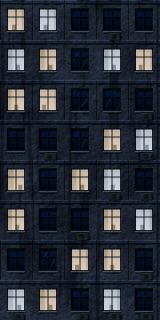
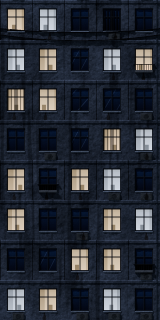
Версия 2026.11.02-120: город — фасад без одинаковой сетки окон: решётки, балконы с перилами, потёки ржавчины, кабели
make_facade.py: решётки на 12 % окон, балконы у 10 % (ниже точки, по которой игра различает горящие окна), потёки ржавчины
под подоконниками, провисшие кабели. В MASTER_PLAN — итоги v112–119 по критику r37.

Claude-Session: https://claude.ai/code/session_01JvXrYdG1XCH4i3GESsQzbh

diff --git a/index.html b/index.html
@@ -114,7 +114,7 @@
         </div>
       </div>
     </div>
-    <footer class="menu-footer"><span id="game-version">ВЕРСИЯ 2026.11.02-119</span><span>ПЛАНИРУЙ ХОД. МЕНЯЙ ЛАНДШАФТ.</span><span class="footer-status"><i></i> ГОТОВ К БОЮ</span></footer>
+    <footer class="menu-footer"><span id="game-version">ВЕРСИЯ 2026.11.02-120</span><span>ПЛАНИРУЙ ХОД. МЕНЯЙ ЛАНДШАФТ.</span><span class="footer-status"><i></i> ГОТОВ К БОЮ</span></footer>
   </section>
 
   <!-- Онлайн -->

diff --git a/dev/blender/make_facade.py b/dev/blender/make_facade.py
@@ -82,7 +82,22 @@ def field(seed=161):
     C = np.where(acs[..., None], C * 0.55, C)
     pipe = np.abs(xx - (TW - 3)) < 1.1
     H = np.where(pipe, H + 1.1 * np.sqrt(np.clip(1 - ((xx - (TW - 3)) / 1.1) ** 2, 0, 1)), H); C = np.where(pipe[..., None], np.array([62, 64, 70], np.float32), C)
-    E = np.where((glass & lit)[..., None], inter / 255.0 * 0.9, 0).astype(np.float32)
+    # v120 (критик r37: «сетка одинаковых окон — 2–4 элемента на этаж: решётки, водостоки, кабели, балконы»):
+    vr = rng.random(rw.shape)[ri, ci]                                          # своё случайное число у каждого окна
+    bars = (vr < 0.12) & glass & ((np.abs(((fx - wx0) % 3.0) - 1.5) < 0.35))           # решётка на 12 % окон: прутья через 3 ед.
+    C = np.where(bars[..., None], np.array([34, 33, 32], np.float32), C); H = np.where(bars, H + 2.2, H)
+    E = np.where((glass & lit & ~bars)[..., None], inter / 255.0 * 0.9, 0).astype(np.float32)
+    bal = (vr > 0.9) & inx & (fy >= wy0 + wh - 1.0) & (fy < wy0 + wh + 1.8)          # балкон на 10 % окон: плита и перила
+    rail = (vr > 0.9) & (fx >= wx0 - 1.5) & (fx < wx0 + ww + 1.5) & (fy >= wy0 + wh - 7.0) & (fy < wy0 + wh - 1.0) & ((((fx - wx0) % 2.2) < 0.45) | (fy < wy0 + wh - 6.3))   # ниже точки пробы окна (11, 23) — игра различает горящие окна
+    C = np.where(bal[..., None], np.array([92, 90, 88], np.float32), C); H = np.where(bal, H + 4.0, H)
+    C = np.where(rail[..., None], np.array([40, 40, 42], np.float32), C); H = np.where(rail, H + 4.5, H); E = np.where(rail[..., None], 0, E)
+    rust = (rng.random(rw.shape) < 0.35)[ri, ci] & (np.abs(fx - (wx0 + ww * (0.3 + 0.4 * hue[ri, ci]))) < 1.2 + 0.6 * np.sin(fy * 0.7)) & (fy >= wy0 + wh + 1.6) & (fy < wy0 + wh + 12)
+    C = np.where(rust[..., None], C * np.array([0.78, 0.7, 0.62], np.float32) * (0.85 + 0.15 * np.clip((fy - wy0 - wh) / 12, 0, 1))[..., None], C)   # потёки ржавчины под подоконником
+    for k in range(2):                                                         # провисшие кабели поперёк плитки
+        y0 = rng.uniform(20, TH - 20); sag = rng.uniform(3, 7)
+        cy = y0 + sag * 4 * (xx / TW) * (1 - xx / TW)
+        cab = np.abs(yy - cy) < 0.45
+        C = np.where(cab[..., None], np.array([18, 18, 20], np.float32), C); H = np.where(cab, H + 2.8, H); E = np.where(cab[..., None], 0, E)
     return H.astype(np.float32), np.clip(C, 0, 255), E
 
 

diff --git a/dev/MASTER_PLAN.md b/dev/MASTER_PLAN.md
@@ -118,7 +118,11 @@ NET8: один неподтверждённый снимок состояния,
    (как у игрока с видеокартой).
    Критик r36 (28.10): средняя 6,3 (вулкан/alien/город 5,5, арктика/пираты 6,5, каньон/замки/долина 7) → v106–111: резкость
    и бикубическая выборка, декор/плющ/трава ×8 и бойцы ×2 (цель владельца 28.10 «чётко, как в реальности»), плиты и трещины
-   вулкана, трава теплее, город без «битых» окон, море пиратов из Blender (полоса поверхности, блики, пена). Следующий: r37.
+   вулкана, трава теплее, город без «битых» окон, море пиратов из Blender (полоса поверхности, блики, пена).
+   Критик r37 (02.11): средняя 6,3 → v112–119: друзы и бархатный мох Alien, порода Арктики без «соли» со швами и инеем,
+   стены тоннелей и щебень каньона (плиты откатаны), объёмные пласты (strata_volume.py), валуны долины вдвое реже, угловатые
+   тёплые камни замков, мелкие детали 8/ед. у 20 материалов (make_fine.py), фасад и плиты города, тёмный базальт вулкана,
+   бирюзовое море с тёплыми бликами, дёрн под травой тоньше. Следующий: r38.
 4. Остальное из NEXT_STEPS: края пещер, вода, alien, двойные карты деталей Blender, оторванная рука на спрайте, плавность.
 5. Фотореализм через Blender (просьба 09.10 «сделай всё фотореалистичным»): всё векторное и лоскутное — в рендеры Blender
    (кладка — make_masonry.py ✓ долина/замки; ели ✓; доски корабля ✓ numpy; далее плющ, декор каньона, вулкан, Alien, город,

diff --git a/dev/reviews/r29.md b/dev/reviews/r29.md
@@ -226,3 +226,6 @@ v119 (по r37, каньон): объём пластов песчаника — 
 светлее (+16 %), низ темнее (−12 %), посередине — вторичная линия напластования ~1,2 ед. со светлой кромкой под ней, высота
 своя у каждого пласта, местами прерывается; rock_canyon и dirt_canyon — одна картинка. Средние частоты кадра 8,7 → 9,1
 (эталон 11,1), L95 117 → 122.
+v120 (по r37, город: «сетка одинаковых окон»): фасад (make_facade.py) — решётки на 12 % окон (прутья через 3 ед.), балконы
+с перилами у 10 % (ниже точки пробы окна — игра по-прежнему различает горящие), потёки ржавчины под подоконниками у трети окон,
+два провисших кабеля поперёк плитки; горящие окна в кадре — средняя L 167 (эталон 166–170).

diff --git a/dev/NEXT_STEPS.md b/dev/NEXT_STEPS.md
@@ -26,7 +26,8 @@
   бирюзовое с тёплыми бликами, палубы; вулкан темнее (36/18/13), жилы тоньше; город — кондиционеры, окна; Alien — друзы, мох.
 - [x] v118: долина/замки — дёрн под травой тоньше, трава ярче; долина — крупные глыбы реже, «шатры» убраны.
 - [ ] Дальше по r37: Alien — камни угловатыми глыбами, кристаллы
-  под нижним краем острова; город — торцы/крыша без синевы, детали фасада.
+  под нижним краем острова; город — торцы/крыша без синевы.
+- [x] v120: город — на фасаде решётки, балконы, потёки ржавчины, кабели.
 - [x] v119: каньон — объём пластов и вторичные линии напластования (strata_volume.py, MF 8,7 → 9,1 при 11,1).
 - [ ] Критик r38 по кадрам v117.
 
